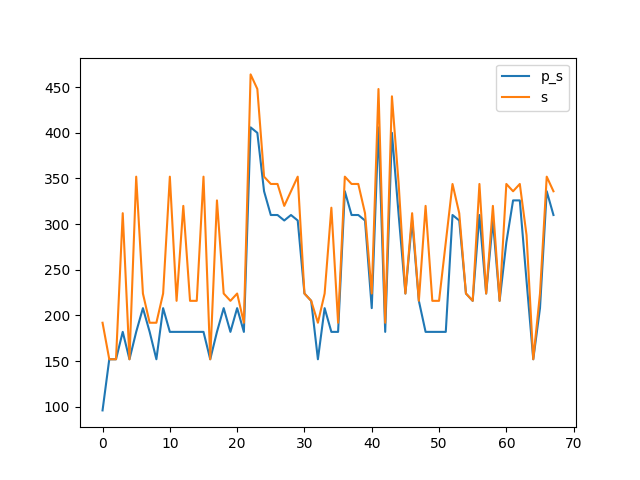
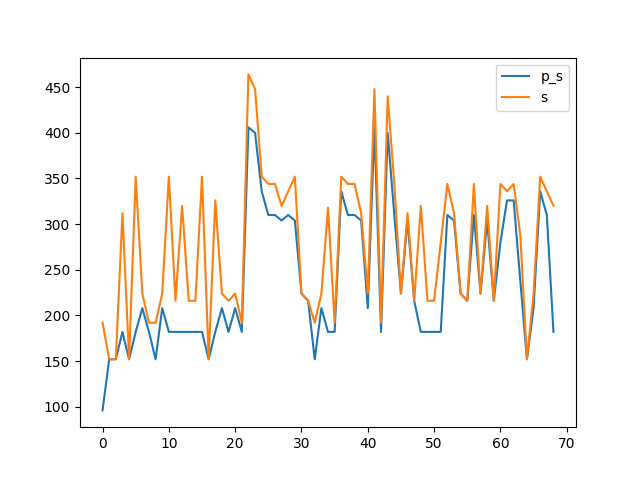
0x0044

diff --git a/benchmark.md b/benchmark.md
@@ -134,16 +134,18 @@ Synthesising 0x0042 pexact:336 r=5 exact:352 r=4
 
 Synthesising 0x0043 pexact:310 r=5 exact:336 r=4
 
+Synthesising 0x0044 pexact:182 r=4 exact:320 r=4
+
 ```mermaid
 xychart-beta
     title "Comparison powertwoexact twoexact"
-    x-axis [0, 1, 2, 3, 4, 5, 6, 7, 8, 9, 10, 11, 12, 13, 14, 15, 16, 17, 18, 19, 20, 21, 22, 23, 24, 25, 26, 27, 28, 29, 30, 31, 32, 33, 34, 35, 36, 37, 38, 39, 40, 41, 42, 43, 44, 45, 46, 47, 48, 49, 50, 51, 52, 53, 54, 55, 56, 57, 58, 59, 60, 61, 62, 63, 64, 65, 66, 67]
+    x-axis [0, 1, 2, 3, 4, 5, 6, 7, 8, 9, 10, 11, 12, 13, 14, 15, 16, 17, 18, 19, 20, 21, 22, 23, 24, 25, 26, 27, 28, 29, 30, 31, 32, 33, 34, 35, 36, 37, 38, 39, 40, 41, 42, 43, 44, 45, 46, 47, 48, 49, 50, 51, 52, 53, 54, 55, 56, 57, 58, 59, 60, 61, 62, 63, 64, 65, 66, 67, 68]
     y-axis "Switching Activity" 0-->464
-    line [96, 152, 152, 182, 152, 182, 208, 182, 152, 208, 182, 182, 182, 182, 182, 182, 152, 182, 208, 182, 208, 182, 406, 400, 336, 310, 310, 304, 310, 304, 224, 216, 152, 208, 182, 182, 336, 310, 310, 304, 208, 406, 182, 400, 310, 224, 304, 216, 182, 182, 182, 182, 310, 304, 224, 216, 310, 224, 304, 216, 280, 326, 326, 238, 152, 208, 336, 310]
-    line [192, 152, 152, 312, 152, 352, 224, 192, 192, 224, 352, 216, 320, 216, 216, 352, 152, 326, 224, 216, 224, 192, 464, 448, 352, 344, 344, 320, 336, 352, 224, 216, 192, 224, 318, 192, 352, 344, 344, 312, 224, 448, 192, 440, 344, 224, 312, 216, 320, 216, 216, 280, 344, 312, 224, 216, 344, 224, 320, 216, 344, 336, 344, 288, 152, 224, 352, 336]
-    line [238.7941176470588, 238.7941176470588, 238.7941176470588, 238.7941176470588, 238.7941176470588, 238.7941176470588, 238.7941176470588, 238.7941176470588, 238.7941176470588, 238.7941176470588, 238.7941176470588, 238.7941176470588, 238.7941176470588, 238.7941176470588, 238.7941176470588, 238.7941176470588, 238.7941176470588, 238.7941176470588, 238.7941176470588, 238.7941176470588, 238.7941176470588, 238.7941176470588, 238.7941176470588, 238.7941176470588, 238.7941176470588, 238.7941176470588, 238.7941176470588, 238.7941176470588, 238.7941176470588, 238.7941176470588, 238.7941176470588, 238.7941176470588, 238.7941176470588, 238.7941176470588, 238.7941176470588, 238.7941176470588, 238.7941176470588, 238.7941176470588, 238.7941176470588, 238.7941176470588, 238.7941176470588, 238.7941176470588, 238.7941176470588, 238.7941176470588, 238.7941176470588, 238.7941176470588, 238.7941176470588, 238.7941176470588, 238.7941176470588, 238.7941176470588, 238.7941176470588, 238.7941176470588, 238.7941176470588, 238.7941176470588, 238.7941176470588, 238.7941176470588, 238.7941176470588, 238.7941176470588, 238.7941176470588, 238.7941176470588, 238.7941176470588, 238.7941176470588, 238.7941176470588, 238.7941176470588, 238.7941176470588, 238.7941176470588, 238.7941176470588, 238.7941176470588]
-    line [277.0, 277.0, 277.0, 277.0, 277.0, 277.0, 277.0, 277.0, 277.0, 277.0, 277.0, 277.0, 277.0, 277.0, 277.0, 277.0, 277.0, 277.0, 277.0, 277.0, 277.0, 277.0, 277.0, 277.0, 277.0, 277.0, 277.0, 277.0, 277.0, 277.0, 277.0, 277.0, 277.0, 277.0, 277.0, 277.0, 277.0, 277.0, 277.0, 277.0, 277.0, 277.0, 277.0, 277.0, 277.0, 277.0, 277.0, 277.0, 277.0, 277.0, 277.0, 277.0, 277.0, 277.0, 277.0, 277.0, 277.0, 277.0, 277.0, 277.0, 277.0, 277.0, 277.0, 277.0, 277.0, 277.0, 277.0, 277.0]
-    bar [80, 60, 60, 80, 60, 80, 80, 80, 60, 80, 80, 80, 80, 80, 80, 80, 60, 80, 80, 80, 80, 80, 120, 120, 100, 100, 100, 100, 100, 100, 60, 60, 60, 80, 80, 80, 100, 100, 100, 100, 80, 120, 80, 120, 100, 60, 100, 60, 80, 80, 80, 80, 100, 100, 60, 60, 100, 60, 100, 60, 80, 100, 100, 100, 60, 80, 100, 100]
-    bar [80, 60, 60, 80, 60, 80, 60, 60, 60, 60, 80, 60, 80, 60, 60, 80, 60, 80, 60, 60, 60, 60, 100, 100, 80, 80, 80, 80, 80, 80, 60, 60, 60, 60, 80, 60, 80, 80, 80, 80, 60, 100, 60, 100, 80, 60, 80, 60, 80, 60, 60, 80, 80, 80, 60, 60, 80, 60, 80, 60, 80, 80, 80, 80, 60, 60, 80, 80]
+    line [96, 152, 152, 182, 152, 182, 208, 182, 152, 208, 182, 182, 182, 182, 182, 182, 152, 182, 208, 182, 208, 182, 406, 400, 336, 310, 310, 304, 310, 304, 224, 216, 152, 208, 182, 182, 336, 310, 310, 304, 208, 406, 182, 400, 310, 224, 304, 216, 182, 182, 182, 182, 310, 304, 224, 216, 310, 224, 304, 216, 280, 326, 326, 238, 152, 208, 336, 310, 182]
+    line [192, 152, 152, 312, 152, 352, 224, 192, 192, 224, 352, 216, 320, 216, 216, 352, 152, 326, 224, 216, 224, 192, 464, 448, 352, 344, 344, 320, 336, 352, 224, 216, 192, 224, 318, 192, 352, 344, 344, 312, 224, 448, 192, 440, 344, 224, 312, 216, 320, 216, 216, 280, 344, 312, 224, 216, 344, 224, 320, 216, 344, 336, 344, 288, 152, 224, 352, 336, 320]
+    line [237.97101449275362, 237.97101449275362, 237.97101449275362, 237.97101449275362, 237.97101449275362, 237.97101449275362, 237.97101449275362, 237.97101449275362, 237.97101449275362, 237.97101449275362, 237.97101449275362, 237.97101449275362, 237.97101449275362, 237.97101449275362, 237.97101449275362, 237.97101449275362, 237.97101449275362, 237.97101449275362, 237.97101449275362, 237.97101449275362, 237.97101449275362, 237.97101449275362, 237.97101449275362, 237.97101449275362, 237.97101449275362, 237.97101449275362, 237.97101449275362, 237.97101449275362, 237.97101449275362, 237.97101449275362, 237.97101449275362, 237.97101449275362, 237.97101449275362, 237.97101449275362, 237.97101449275362, 237.97101449275362, 237.97101449275362, 237.97101449275362, 237.97101449275362, 237.97101449275362, 237.97101449275362, 237.97101449275362, 237.97101449275362, 237.97101449275362, 237.97101449275362, 237.97101449275362, 237.97101449275362, 237.97101449275362, 237.97101449275362, 237.97101449275362, 237.97101449275362, 237.97101449275362, 237.97101449275362, 237.97101449275362, 237.97101449275362, 237.97101449275362, 237.97101449275362, 237.97101449275362, 237.97101449275362, 237.97101449275362, 237.97101449275362, 237.97101449275362, 237.97101449275362, 237.97101449275362, 237.97101449275362, 237.97101449275362, 237.97101449275362, 237.97101449275362, 237.97101449275362]
+    line [277.6231884057971, 277.6231884057971, 277.6231884057971, 277.6231884057971, 277.6231884057971, 277.6231884057971, 277.6231884057971, 277.6231884057971, 277.6231884057971, 277.6231884057971, 277.6231884057971, 277.6231884057971, 277.6231884057971, 277.6231884057971, 277.6231884057971, 277.6231884057971, 277.6231884057971, 277.6231884057971, 277.6231884057971, 277.6231884057971, 277.6231884057971, 277.6231884057971, 277.6231884057971, 277.6231884057971, 277.6231884057971, 277.6231884057971, 277.6231884057971, 277.6231884057971, 277.6231884057971, 277.6231884057971, 277.6231884057971, 277.6231884057971, 277.6231884057971, 277.6231884057971, 277.6231884057971, 277.6231884057971, 277.6231884057971, 277.6231884057971, 277.6231884057971, 277.6231884057971, 277.6231884057971, 277.6231884057971, 277.6231884057971, 277.6231884057971, 277.6231884057971, 277.6231884057971, 277.6231884057971, 277.6231884057971, 277.6231884057971, 277.6231884057971, 277.6231884057971, 277.6231884057971, 277.6231884057971, 277.6231884057971, 277.6231884057971, 277.6231884057971, 277.6231884057971, 277.6231884057971, 277.6231884057971, 277.6231884057971, 277.6231884057971, 277.6231884057971, 277.6231884057971, 277.6231884057971, 277.6231884057971, 277.6231884057971, 277.6231884057971, 277.6231884057971, 277.6231884057971]
+    bar [80, 60, 60, 80, 60, 80, 80, 80, 60, 80, 80, 80, 80, 80, 80, 80, 60, 80, 80, 80, 80, 80, 120, 120, 100, 100, 100, 100, 100, 100, 60, 60, 60, 80, 80, 80, 100, 100, 100, 100, 80, 120, 80, 120, 100, 60, 100, 60, 80, 80, 80, 80, 100, 100, 60, 60, 100, 60, 100, 60, 80, 100, 100, 100, 60, 80, 100, 100, 80]
+    bar [80, 60, 60, 80, 60, 80, 60, 60, 60, 60, 80, 60, 80, 60, 60, 80, 60, 80, 60, 60, 60, 60, 100, 100, 80, 80, 80, 80, 80, 80, 60, 60, 60, 60, 80, 60, 80, 80, 80, 80, 60, 100, 60, 100, 80, 60, 80, 60, 80, 60, 60, 80, 80, 80, 60, 60, 80, 60, 80, 60, 80, 80, 80, 80, 60, 60, 80, 80, 80]
 ```
 
